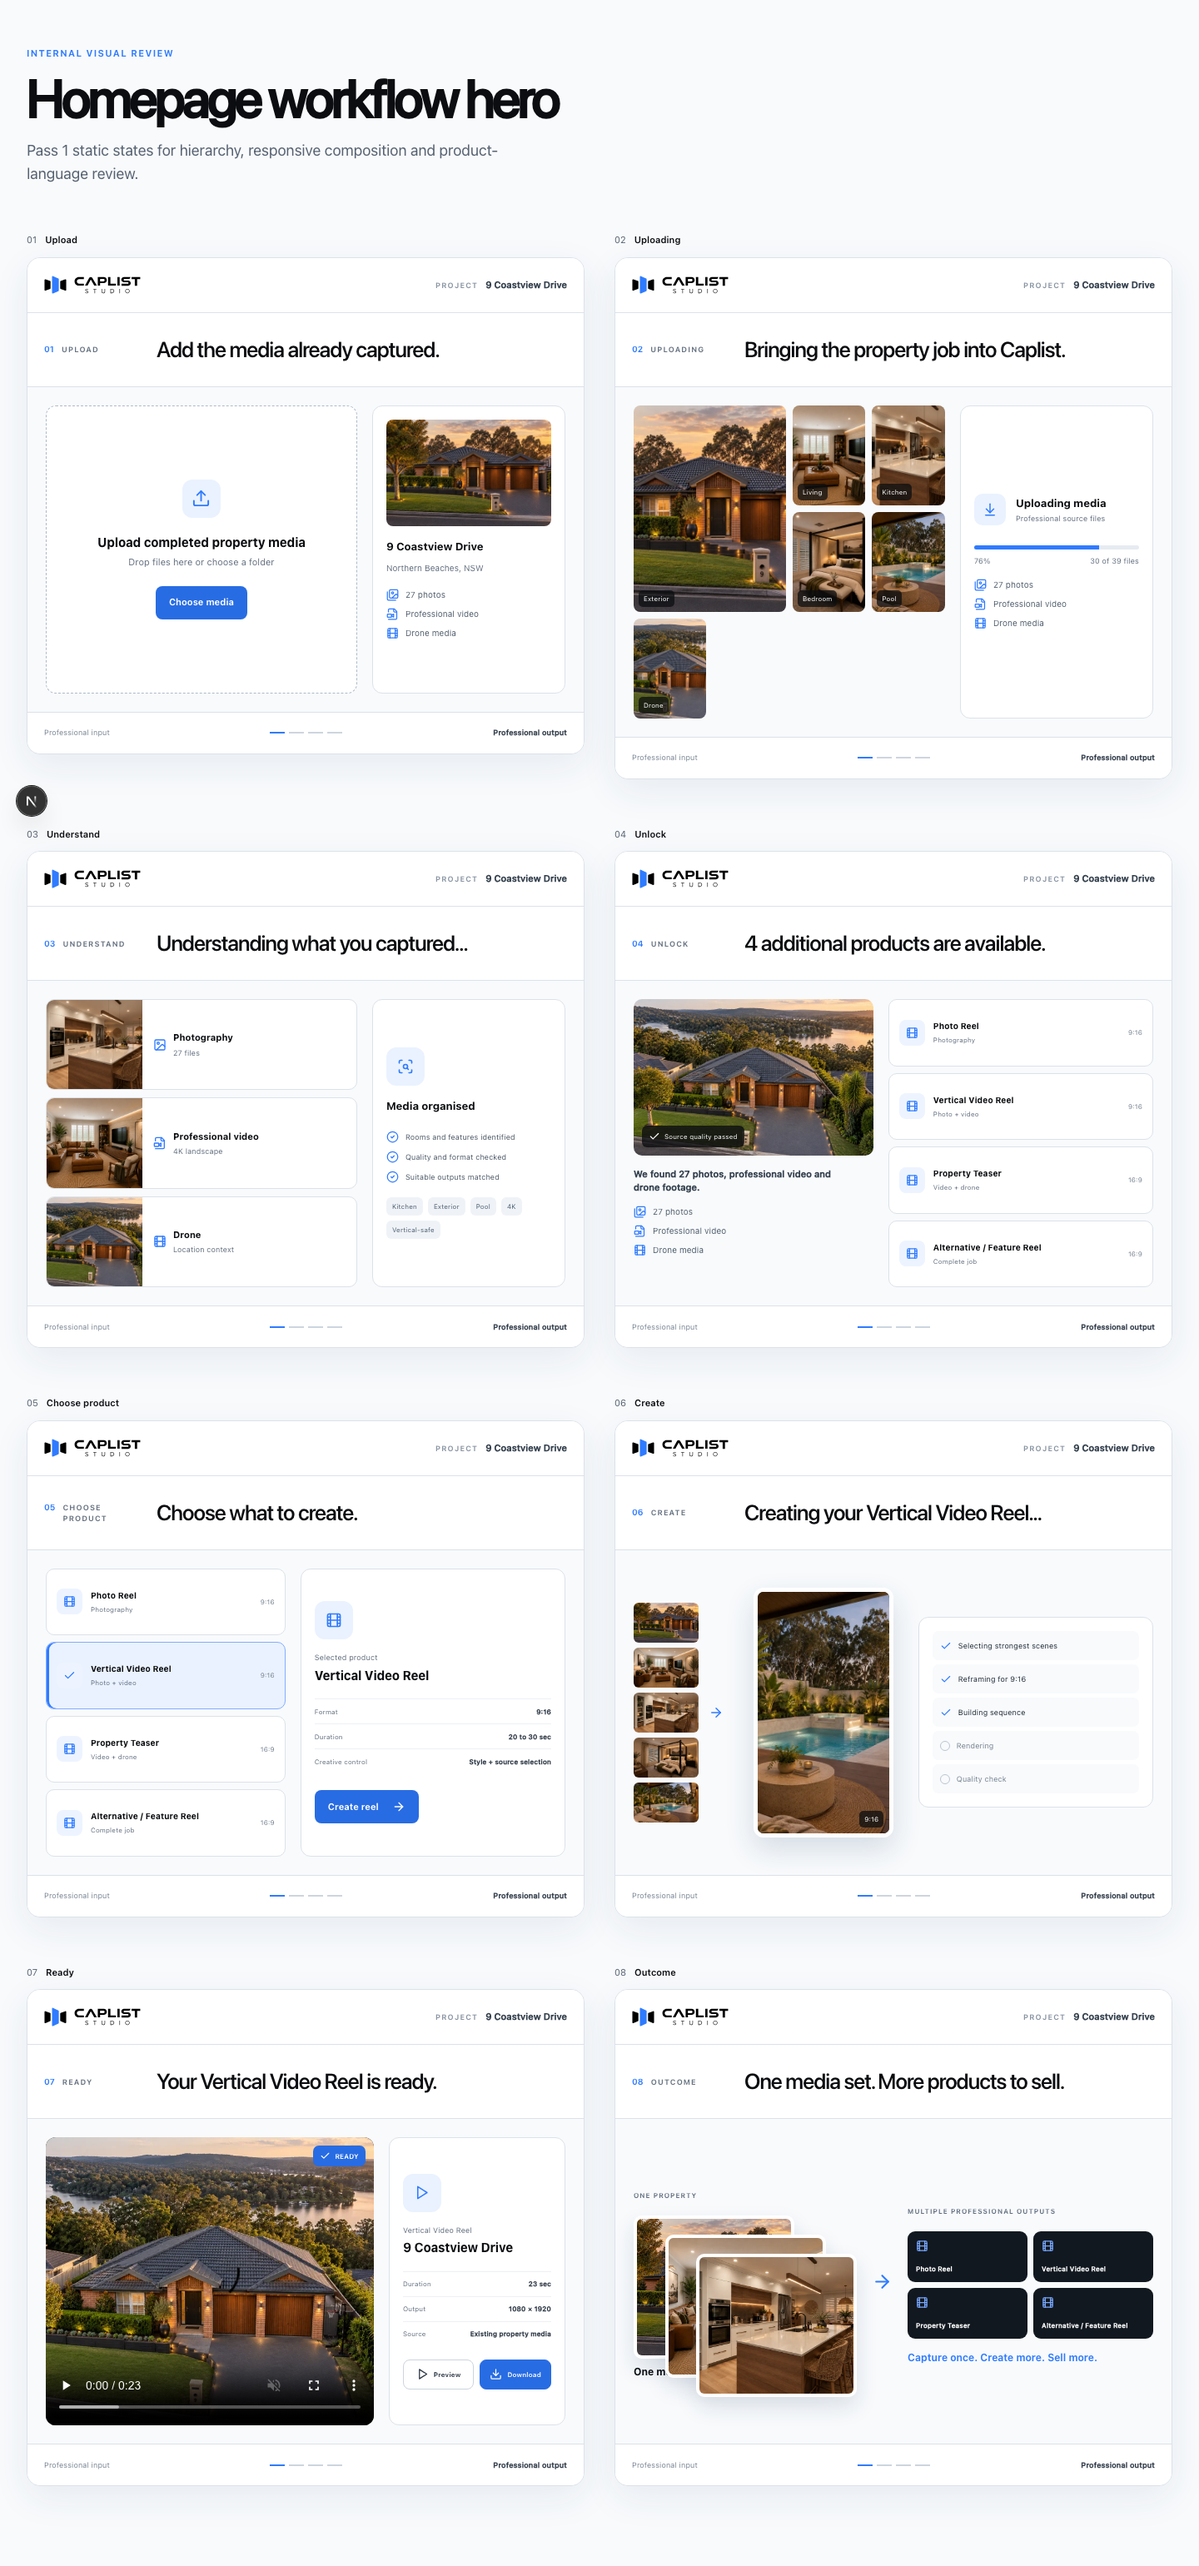
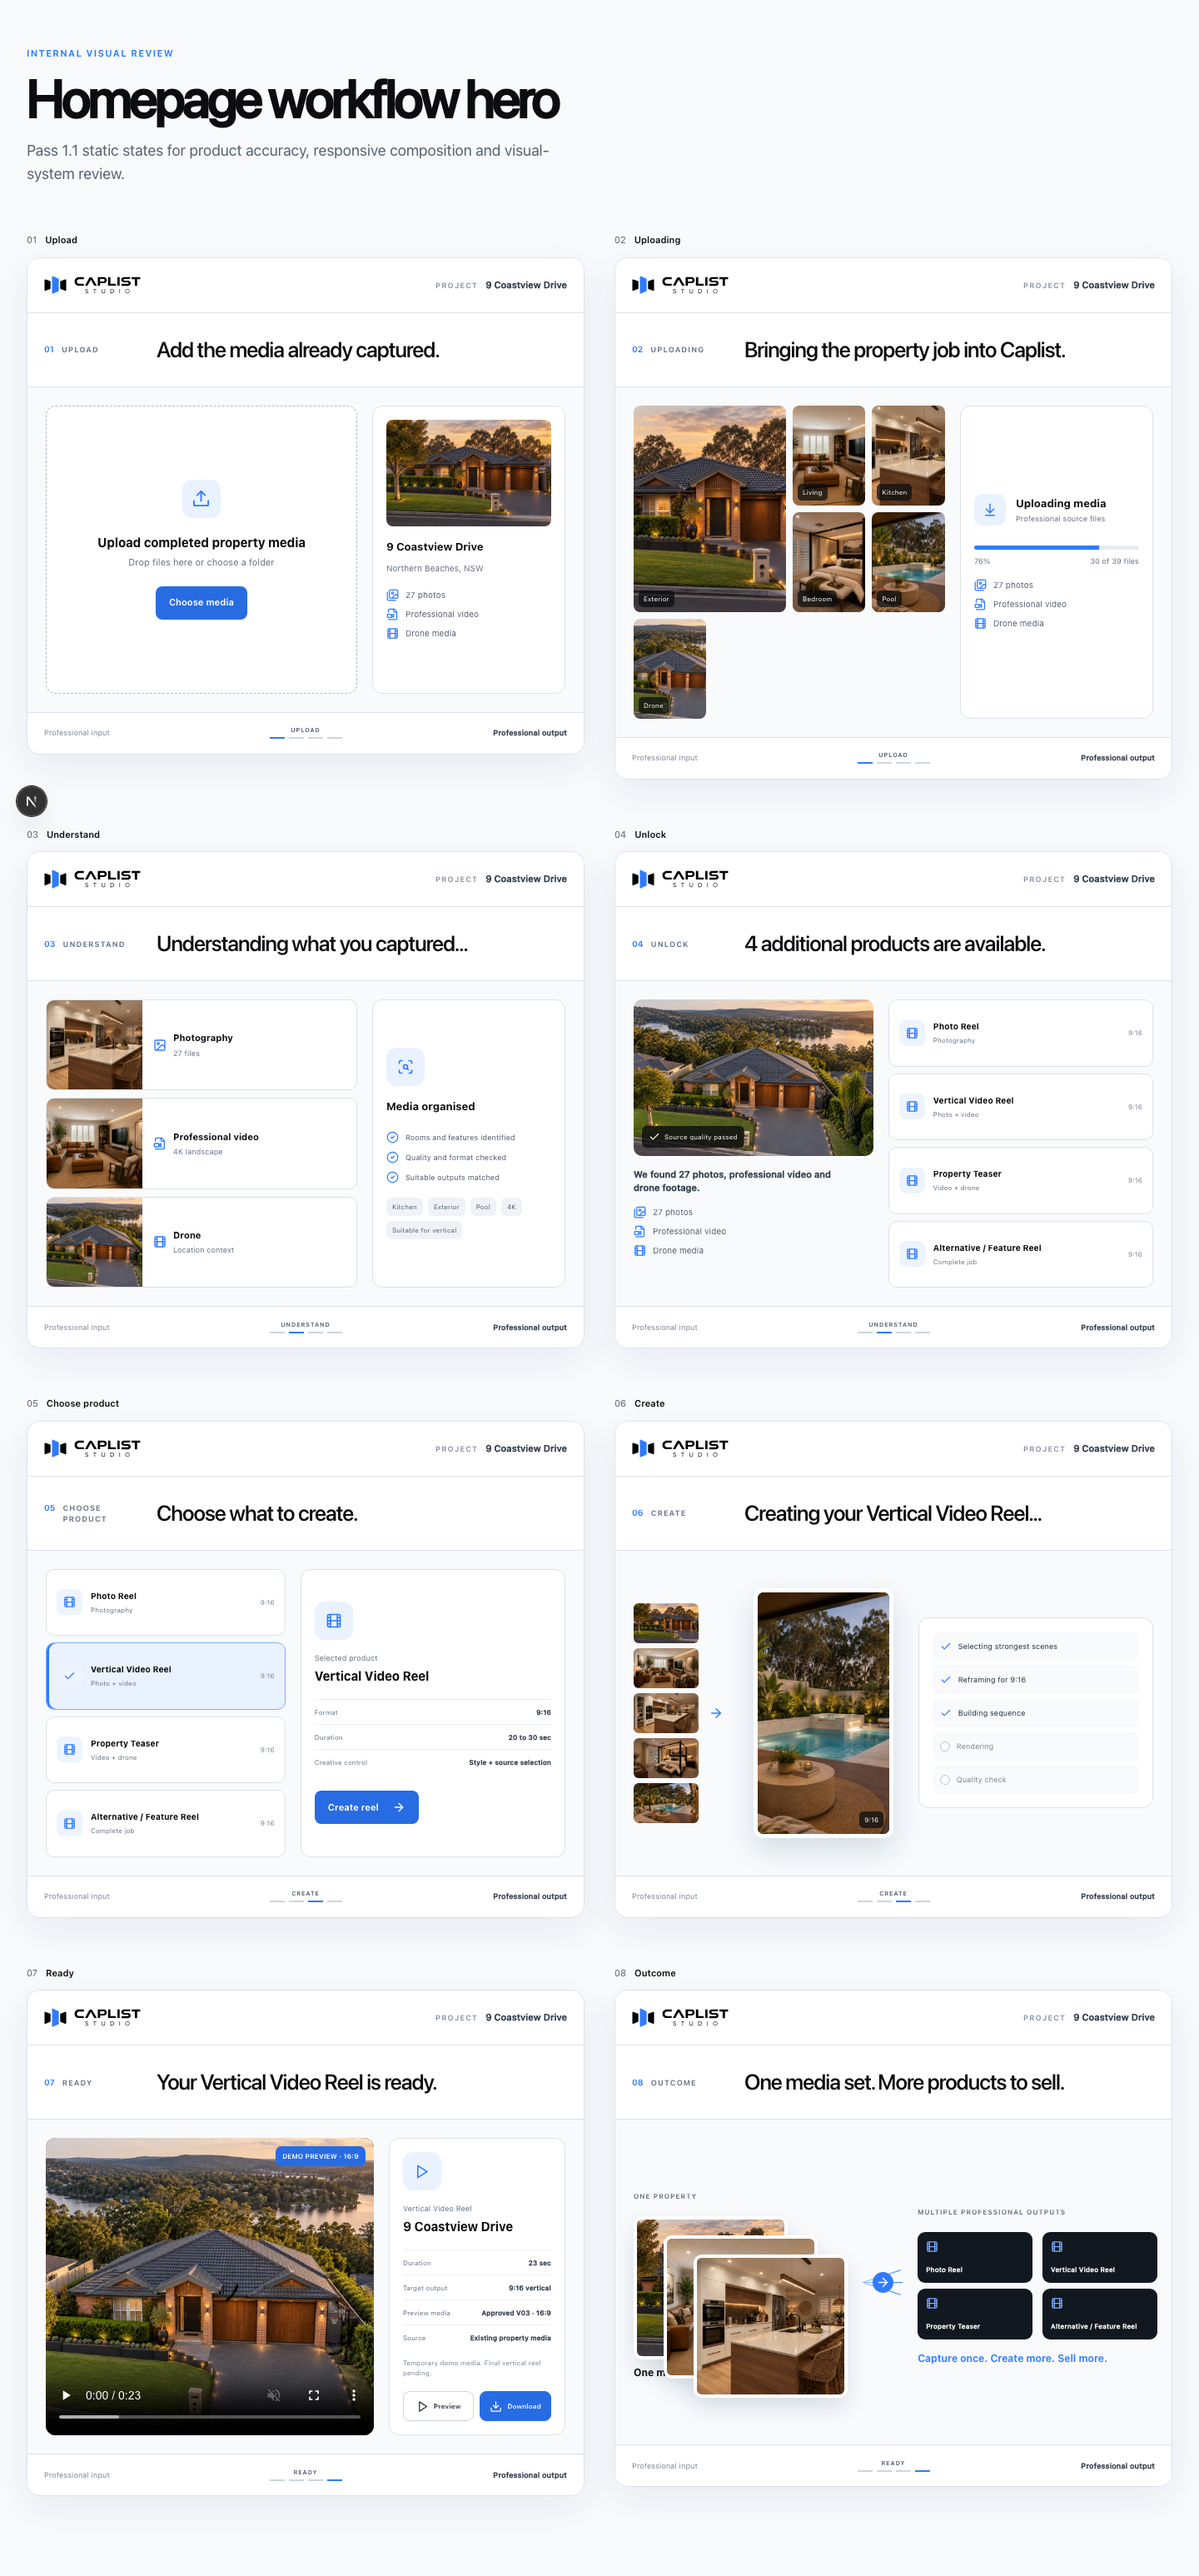
Refine homepage workflow product accuracy

diff --git a/components/home/workflow/workflow.module.css b/components/home/workflow/workflow.module.css
@@ -138,12 +138,28 @@
   text-align: right;
 }
 
-.shellFooter > div {
+.phaseProgress {
+  min-width: 88px;
+  display: grid;
+  justify-items: center;
+  gap: 5px;
+}
+
+.phaseProgress small {
+  color: #526171;
+  font-size: 7px;
+  font-weight: 650;
+  letter-spacing: 0.11em;
+  line-height: 1;
+  text-transform: uppercase;
+}
+
+.phaseProgress > span {
   display: flex;
   gap: 5px;
 }
 
-.shellFooter i {
+.phaseProgress i {
   width: 18px;
   height: 2px;
   display: block;
@@ -754,6 +770,13 @@
   border-color: #286ce3;
 }
 
+.placeholderNote {
+  margin-top: 11px;
+  color: #778493;
+  font-size: 8px;
+  line-height: 1.45;
+}
+
 .outcomeLayout {
   width: 100%;
   display: grid;
@@ -805,11 +828,47 @@
   font-size: 12px;
 }
 
+.outcomeBridge {
+  position: relative;
+  width: 48px;
+  height: 116px;
+  display: grid;
+  place-items: center;
+}
+
+.outcomeBridge > i {
+  position: absolute;
+  left: 0;
+  width: 100%;
+  height: 1px;
+  display: block;
+  background: linear-gradient(90deg, #9ebfff, #2f7bff);
+  transform-origin: left center;
+}
+
+.outcomeBridge > i:first-child {
+  transform: rotate(-18deg);
+}
+
+.outcomeBridge > i:nth-child(2) {
+  transform: rotate(0deg);
+}
+
+.outcomeBridge > i:nth-child(3) {
+  transform: rotate(18deg);
+}
+
 .outcomeArrow {
-  color: var(--workflow-blue);
+  position: relative;
+  z-index: 1;
+  padding: 4px;
+  color: #fff;
+  background: var(--workflow-blue);
+  border-radius: 50%;
 }
 
 .outcomeProducts > div {
+  position: relative;
   margin-top: 14px;
   display: grid;
   grid-template-columns: 1fr 1fr;
@@ -825,6 +884,11 @@
   color: #fff;
   background: #111820;
   border-radius: 9px;
+}
+
+.outcomeProducts article:nth-child(2),
+.outcomeProducts article:nth-child(4) {
+  transform: translateX(5px);
 }
 
 .outcomeProducts article svg {
@@ -945,6 +1009,14 @@
 
   .shellFooter {
     padding: 11px 13px;
+  }
+
+  .phaseProgress {
+    min-width: 76px;
+  }
+
+  .phaseProgress i {
+    width: 15px;
   }
 
   .uploadLayout,
@@ -1091,12 +1163,22 @@
   }
 
   .outcomeLayout {
-    grid-template-columns: 0.78fr auto 1fr;
-    gap: 10px;
+    grid-template-columns: 0.78fr 28px 1fr;
+    gap: 7px;
+  }
+
+  .outcomeBridge {
+    width: 28px;
+    height: 98px;
   }
 
   .outcomeStack {
     height: 135px;
+  }
+
+  .outcomeStack img {
+    height: 82px;
+    object-fit: cover;
   }
 
   .outcomeProducts > div {
@@ -1107,10 +1189,6 @@
     min-height: 43px;
     flex-direction: row;
     align-items: center;
-  }
-
-  .outcomeProducts article:nth-child(n + 4) {
-    display: none;
   }
 
   .outcomeProducts > p {

diff --git a/components/home/workflow/WorkflowScenes.tsx b/components/home/workflow/WorkflowScenes.tsx
@@ -125,7 +125,7 @@ function UnderstandScene() {
           <p key={item}><CheckCircle2 size={15} />{item}</p>
         ))}
         <div className={styles.analysisTags}>
-          <span>Kitchen</span><span>Exterior</span><span>Pool</span><span>4K</span><span>Vertical-safe</span>
+          <span>Kitchen</span><span>Exterior</span><span>Pool</span><span>4K</span><span>Suitable for vertical</span>
         </div>
       </aside>
     </div>
@@ -212,7 +212,7 @@ function ReadyScene() {
         >
           <source src="/media/dp001/reel-v03.mp4" type="video/mp4" />
         </video>
-        <span className={styles.readyBadge}><Check size={13} />Ready</span>
+        <span className={styles.readyBadge}>Demo preview · 16:9</span>
       </div>
       <aside className={styles.outputDetails}>
         <span className={styles.outputIcon}><Play size={19} /></span>
@@ -220,9 +220,11 @@ function ReadyScene() {
         <strong>9 Coastview Drive</strong>
         <dl>
           <div><dt>Duration</dt><dd>23 sec</dd></div>
-          <div><dt>Output</dt><dd>1080 × 1920</dd></div>
+          <div><dt>Target output</dt><dd>9:16 vertical</dd></div>
+          <div><dt>Preview media</dt><dd>Approved V03 · 16:9</dd></div>
           <div><dt>Source</dt><dd>Existing property media</dd></div>
         </dl>
+        <small className={styles.placeholderNote}>Temporary demo media. Final vertical reel pending.</small>
         <div className={styles.outputActions}>
           <button type="button"><Play size={15} />Preview</button>
           <a href="/media/dp001/reel-v03.mp4" download><Download size={15} />Download</a>
@@ -244,7 +246,10 @@ function OutcomeScene() {
         </div>
         <strong>One media set</strong>
       </div>
-      <ArrowRight className={styles.outcomeArrow} size={25} />
+      <div className={styles.outcomeBridge} aria-hidden="true">
+        <i /><i /><i />
+        <ArrowRight className={styles.outcomeArrow} size={25} />
+      </div>
       <div className={styles.outcomeProducts}>
         <span>Multiple professional outputs</span>
         <div>

diff --git a/components/home/workflow/WorkflowShell.tsx b/components/home/workflow/WorkflowShell.tsx
@@ -1,10 +1,16 @@
 import { CaplistLogo } from "@/components/brand/CaplistLogo";
 import { WorkflowScene } from "./WorkflowScenes";
-import { workflowStateDetails, type WorkflowState } from "./workflow-data";
+import {
+  workflowPhaseByState,
+  workflowPhases,
+  workflowStateDetails,
+  type WorkflowState,
+} from "./workflow-data";
 import styles from "./workflow.module.css";
 
 export function WorkflowShell({ state, review = false }: { state: WorkflowState; review?: boolean }) {
   const details = workflowStateDetails[state];
+  const activePhase = workflowPhaseByState[state];
   return (
     <section className={`${styles.shell} ${review ? styles.reviewShell : ""}`} data-workflow-state={state}>
       <header className={styles.shellHeader}>
@@ -23,7 +29,14 @@ export function WorkflowShell({ state, review = false }: { state: WorkflowState;
       </div>
       <footer className={styles.shellFooter}>
         <span>Professional input</span>
-        <div><i className={styles.activeStep} /><i /><i /><i /></div>
+        <div className={styles.phaseProgress} aria-label={`Workflow phase: ${activePhase}`}>
+          <small>{activePhase}</small>
+          <span aria-hidden="true">
+            {workflowPhases.map((phase) => (
+              <i key={phase} className={phase === activePhase ? styles.activeStep : ""} />
+            ))}
+          </span>
+        </div>
         <strong>Professional output</strong>
       </footer>
     </section>

diff --git a/components/home/workflow/workflow-data.ts b/components/home/workflow/workflow-data.ts
@@ -11,6 +11,19 @@ export const workflowStates = [
 
 export type WorkflowState = (typeof workflowStates)[number];
 
+export const workflowPhases = ["Upload", "Understand", "Create", "Ready"] as const;
+
+export const workflowPhaseByState: Record<WorkflowState, (typeof workflowPhases)[number]> = {
+  upload: "Upload",
+  uploading: "Upload",
+  understand: "Understand",
+  unlock: "Understand",
+  choose: "Create",
+  create: "Create",
+  ready: "Ready",
+  outcome: "Ready",
+};
+
 export const workflowStateDetails: Record<
   WorkflowState,
   { step: string; label: string; headline: string }
@@ -69,8 +82,8 @@ export const propertyMedia = [
 export const unlockedProducts = [
   { name: "Photo Reel", format: "9:16", source: "Photography" },
   { name: "Vertical Video Reel", format: "9:16", source: "Photo + video" },
-  { name: "Property Teaser", format: "16:9", source: "Video + drone" },
-  { name: "Alternative / Feature Reel", format: "16:9", source: "Complete job" },
+  { name: "Property Teaser", format: "9:16", source: "Video + drone" },
+  { name: "Alternative / Feature Reel", format: "9:16", source: "Complete job" },
 ] as const;
 
 export function isWorkflowState(value: string | null): value is WorkflowState {

diff --git a/app/review/workflow/page.tsx b/app/review/workflow/page.tsx
@@ -17,7 +17,7 @@ export default function WorkflowReviewPage() {
           Homepage workflow hero
         </h1>
         <p style={{ maxWidth: 650, marginTop: 18, color: "#566170", lineHeight: 1.6 }}>
-          Pass 1 static states for hierarchy, responsive composition and product-language review.
+          Pass 1.1 static states for product accuracy, responsive composition and visual-system review.
         </p>
       </header>
       <HeroWorkflowDemo reviewAll />

diff --git a/components/homepage/homepage.module.css b/components/homepage/homepage.module.css
@@ -875,6 +875,7 @@
 }
 @media (max-width: 640px) {
   .hero {
+    gap: 26px;
     padding-top: 45px;
   }
   .hero h1 {
